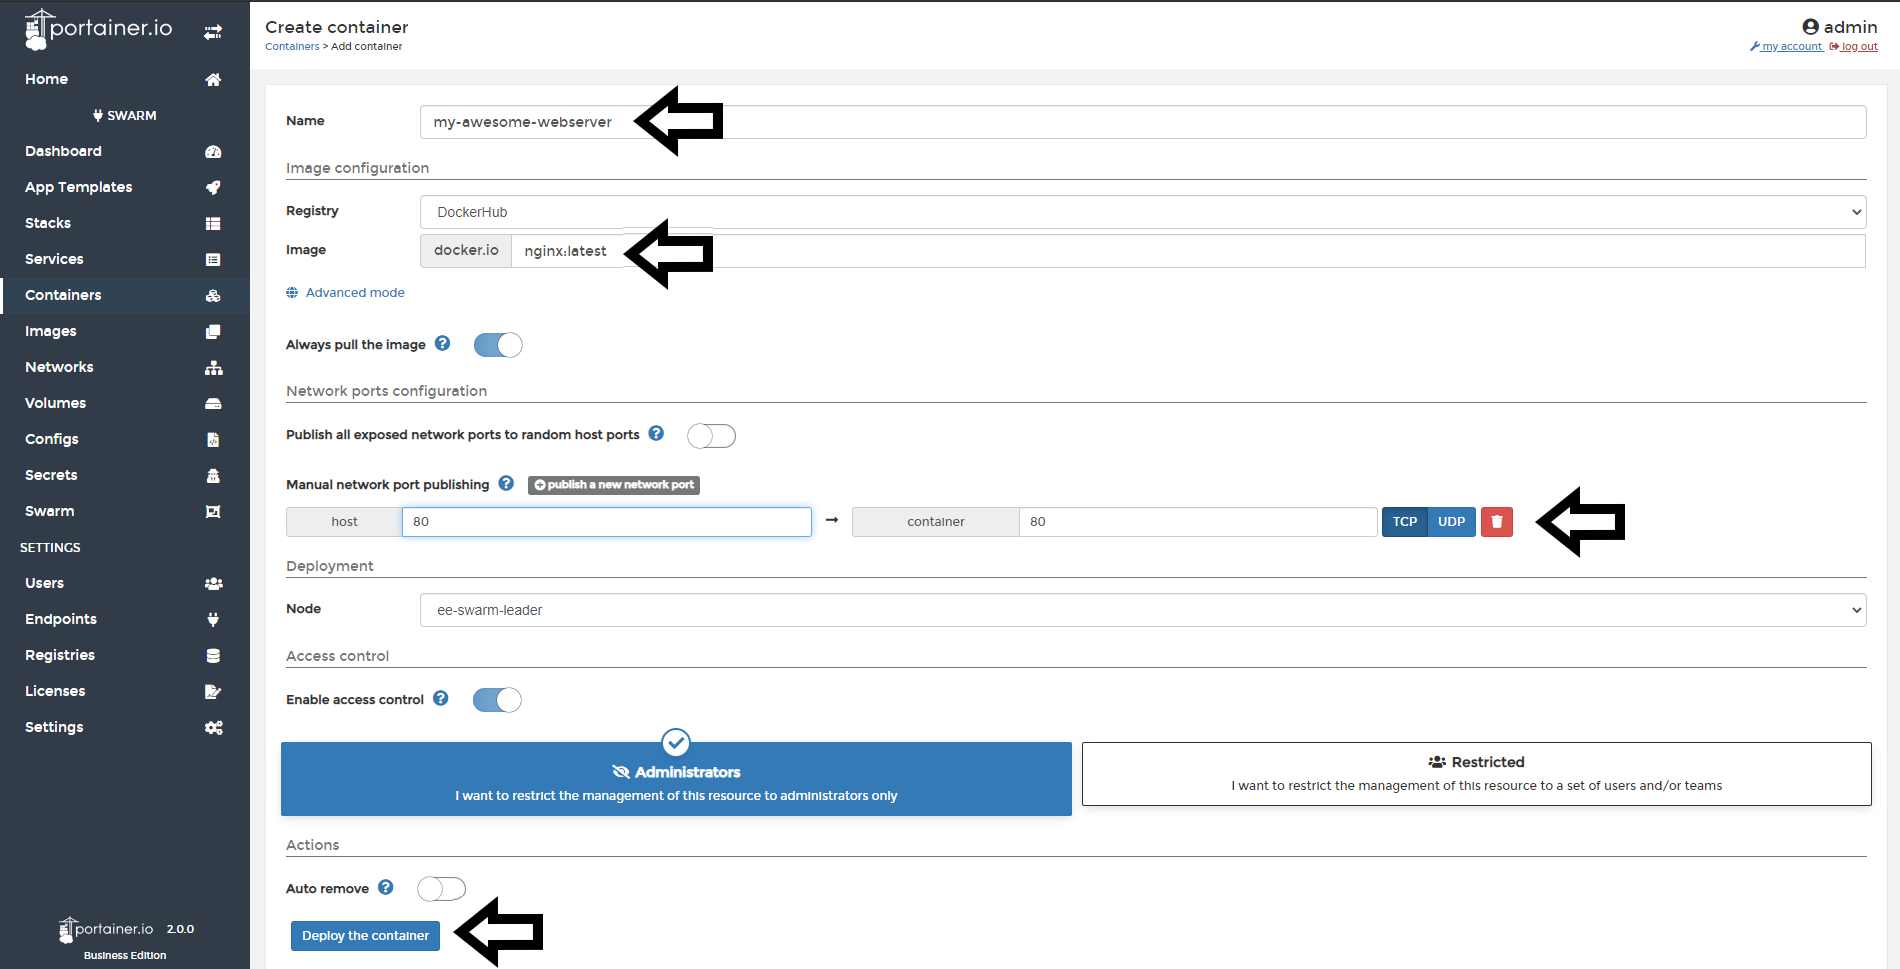
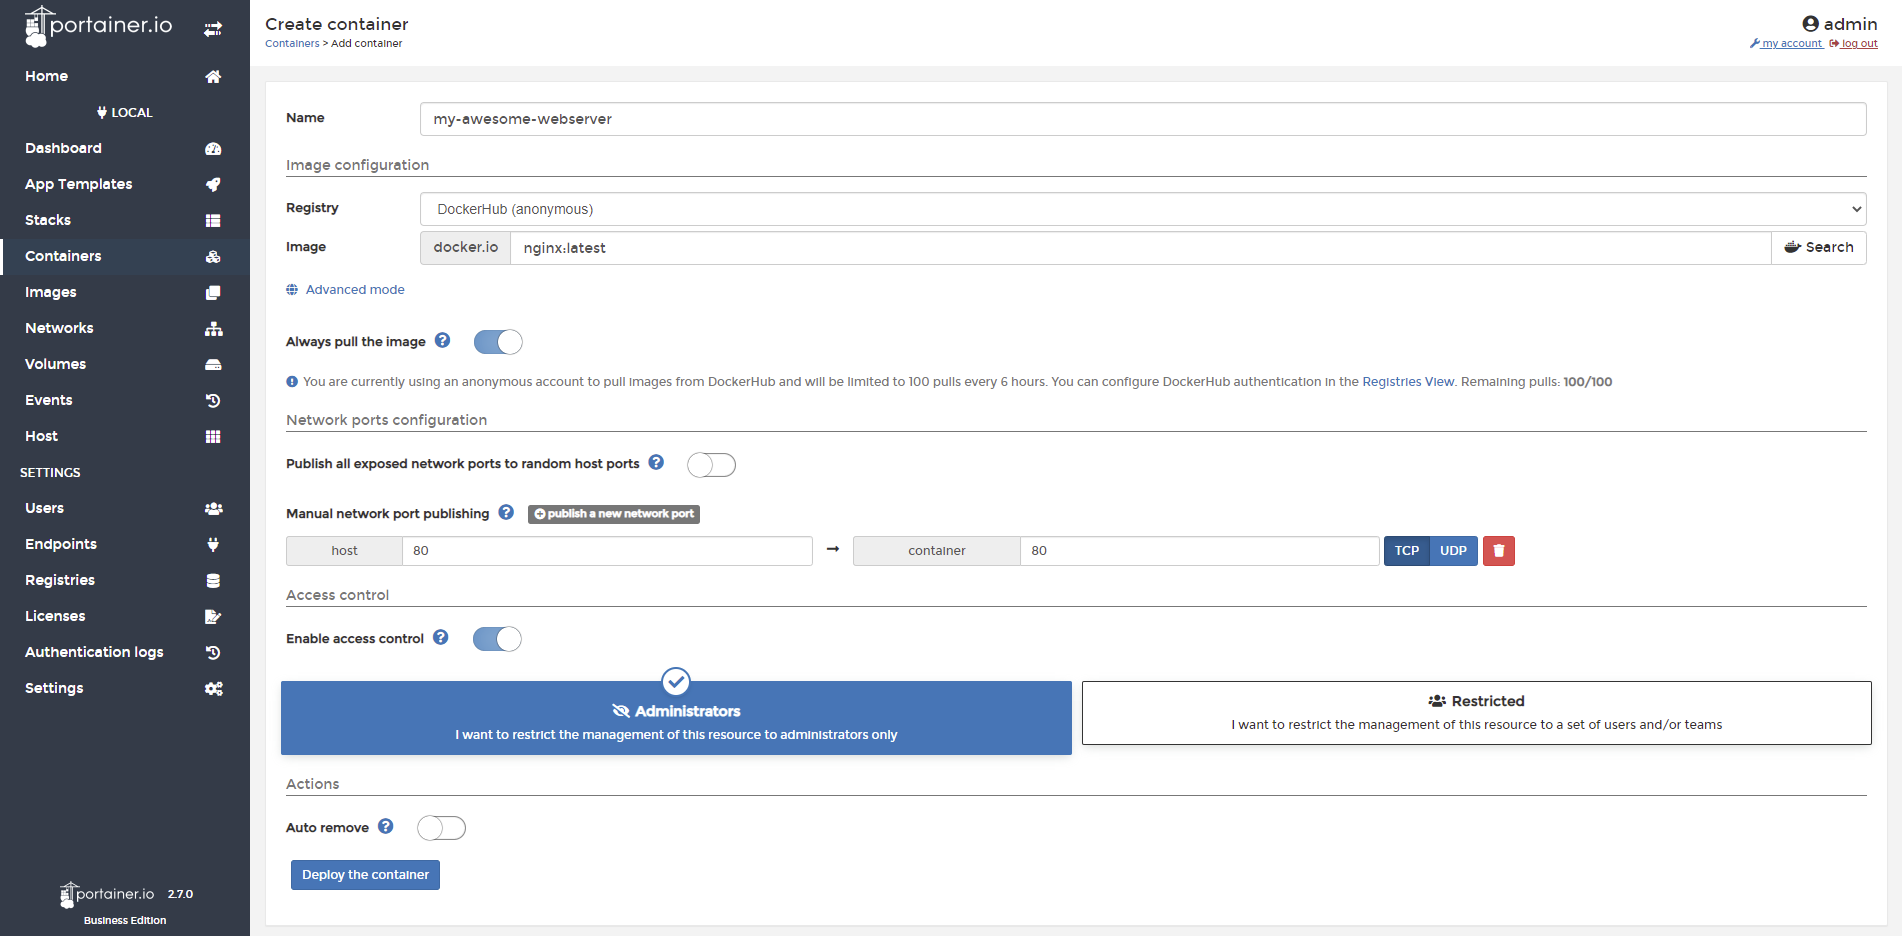
Update create container screenshot, add DockerHub search and pull count

diff --git a/docs/v2.0-be/containers/create.md b/docs/v2.0-be/containers/create.md
@@ -11,15 +11,16 @@ First select the <b>Endpoint</b> you want to add a container to, then select <b>
 
 Add details to your container:
 
-* Name: Friendly name for your container
+* <b>Name</b>: Friendly name for your container
 
-* Registry: Where your image is hosted
+* <b>Registry</b>: Where your image is hosted  
+  Note: when using DockerHub you can use the Search button to search for the image you have entered to ensure you have the correct name and tag. Portainer also displays the number of pulls remaining for your DockerHub account when using an anonymous account.
 
-* Image: The name of the image you want to deploy
+* <b>Image</b>: The name of the image you want to deploy
 
-* Ports: Expose the desired ports
+* <b>Ports</b>: Expose the desired ports
 
-* Advanced Settings: Many options available here to customise the deploymeny from volume and environment configuration to capabilities
+* <b>Advanced Settings</b>: Many options available here to customise the deployment from volume and environment configuration to capabilities
 
 Once complete, click <b>Deploy the Container<b/>. 
 ![container](assets/create_2.png)
